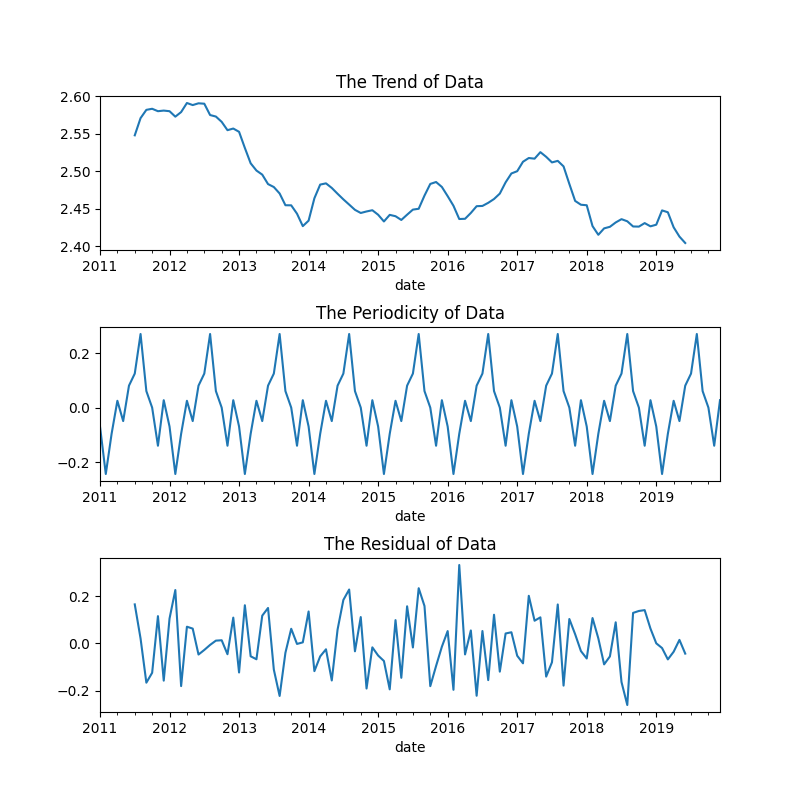
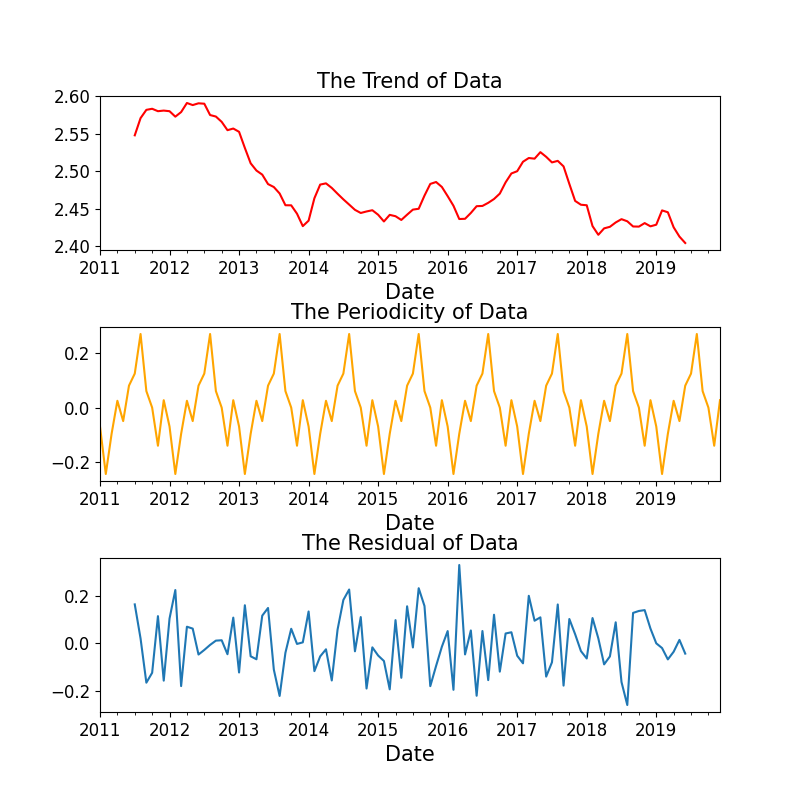
Make a prediction and correct some figures.

diff --git a/ARIMAModel.py b/ARIMAModel.py
@@ -21,9 +21,15 @@ def draw_acf_pacf(ts,lags):
     f = plt.figure(facecolor='white')
     ax1 = f.add_subplot(2, 1, 1)
     plot_acf(ts,ax=ax1,lags=lags)
+    plt.title('Autocorrelation', fontsize=15)
+    plt.xticks(fontsize=12)
+    plt.yticks(fontsize=12)
     ax2 = f.add_subplot(2, 1, 2)
     plot_pacf(ts,ax=ax2,lags=lags)
     plt.subplots_adjust(hspace=0.5)
+    plt.title('Partial Autocorrelation', fontsize=15)
+    plt.xticks(fontsize=12)
+    plt.yticks(fontsize=12)
     plt.show()
 #Generate the date for index
 date=[]
@@ -45,17 +51,26 @@ residual=decomposition.resid
 #Draw the figures about the trend, periodicity and residual of the data.
 plt.figure(figsize=(8, 8))
 plt.subplot(3, 1, 1)
-trend.plot()
-plt.title('The Trend of Data')
+trend.plot(color='red', fontsize=15)
+plt.title('The Trend of Data', fontsize=15)
+plt.xticks(fontsize=12)
+plt.yticks(fontsize=12)
+plt.xlabel('Date', fontsize=15)
 plt.subplot(3, 1, 2)
 plt.subplots_adjust(hspace=0.5)
-seasonal.plot()
+seasonal.plot(color='orange', fontsize=15)
 plt.subplots_adjust(hspace=0.5)
-plt.title('The Periodicity of Data')
+plt.title('The Periodicity of Data', fontsize=15)
+plt.xticks(fontsize=12)
+plt.yticks(fontsize=12)
+plt.xlabel('Date', fontsize=15)
 plt.subplot(3, 1, 3)
 plt.subplots_adjust(hspace=0.5)
-residual.plot()
-plt.title('The Residual of Data')
+residual.plot(fontsize=15)
+plt.title('The Residual of Data', fontsize=15)
+plt.xticks(fontsize=12)
+plt.yticks(fontsize=12)
+plt.xlabel('Date', fontsize=15)
 plt.savefig('figures/composition')
 plt.show()
 #Calculate the means, standard devitation for data. As the periodicity is a year, the size of rolling window is 12.
@@ -65,15 +80,19 @@ rollStdRes=residual.rolling(window=12).std()
 plt.figure(figsize=(8, 8))
 residual.plot(label='Residual')
 rollMeanRes.plot(label='Rolling Mean')
-rollStdRes.plot(label='Rolling Standard Devitation')
-plt.title('Rolling Mean & Standard Deviation')
+rollStdRes.plot(label='Rolling Standard Deviation')
+plt.title('Rolling Mean & Standard Deviation', fontsize=15)
+plt.yticks(fontsize=12)
+plt.xticks(fontsize=12)
+plt.xlabel('date', fontsize=15)
+plt.legend(fontsize=15)
 plt.savefig('figures/mean&stdResidual.png')
 plt.show()
 print(teststationarity(residual))
-draw_acf_pacf(tsLog, 30)
+draw_acf_pacf(tsLog, 40)
 #Build the ARIMA model
 model = ARIMA(tsLog, order=(36, 0, 5))
-resultArima = model.fit( disp=-1, method='css')
+resultArima = model.fit(disp=-1, method='css')
 predictTs = resultArima.predict()
 predict=np.exp(predictTs).reset_index()
 predict.columns=['date', 'Count']
@@ -82,11 +101,27 @@ timeData=timeData.iloc[36:]
 plt.figure(figsize=(8, 8))
 plt.plot(timeData)
 plt.plot(predict)
-plt.legend(['Actual', 'Predict'])
-plt.title('The Actual Values and the Predict Values')
-plt.xlabel('Date')
-plt.ylabel('Number of Visitors(Million)')
+plt.legend(['Actual', 'ARIMA'], fontsize=15)
+plt.title('The Actual Values and the Expected Values', fontsize=15)
+plt.xlabel('Date', fontsize=15)
+plt.ylabel('Number of Visitors(Million)', fontsize=15)
+plt.xticks(fontsize=12)
+plt.yticks(fontsize=12)
 plt.savefig('figures/ARIMA.png')
+plt.show()
+tem=resultArima.predict('2020-01-01', '2020-12-01')
+tem=np.exp(tem).reset_index()
+tem.columns=['date', 'Count']
+tem=tem.set_index(tem['date']).drop(columns=['date'])
+plt.figure(figsize=(8, 8))
+plt.plot(tem, marker='o')
+plt.title('Pridicted Value Based on ARIMA', fontsize=15)
+plt.xlabel('Time', fontsize=15)
+plt.ylabel('Count(Million)', fontsize=15)
+plt.xlim(tem.index.to_list()[0], tem.index.to_list()[-1])
+plt.xticks(fontsize=12, rotation=60)
+plt.yticks(fontsize=12)
+plt.savefig('figures/predict.png')
 plt.show()
 #Chi_square=0.80, MAE=3.8
 print(rfd.meanAbsoluteError(predict['Count'].to_list(), timeData['Count'].to_list()))

diff --git a/transferModel.py b/transferModel.py
@@ -4,6 +4,7 @@ from sklearn.linear_model import LinearRegression
 import scipy.stats as ss
 import numpy as np
 from sklearn.metrics import mean_squared_error
+from sklearn.metrics import mean_squared_error
 
 ageData=rfd.readFrom('visitor', 'age')
 total=ageData.groupby('Year').sum().reset_index()
@@ -45,5 +46,6 @@ plt.xticks(fontsize=12)
 plt.yticks(fontsize=12)
 plt.savefig('figures/predictionTransferModel.png')
 plt.show()
-#print(ss.chisquare(total['Count'].to_list()[3:], f_exp=ARIMA))
-#print(rfd.meanAbsoluteError(total['Count'].to_list()[3:], ARIMA))
+print(ss.chisquare(total['Count'].to_list()[3:], f_exp=ARIMA))
+print(rfd.meanAbsoluteError(total['Count'].to_list()[3:], ARIMA))
+print(np.sqrt(mean_squared_error(total['Count'].to_list()[3:], ARIMA)))
